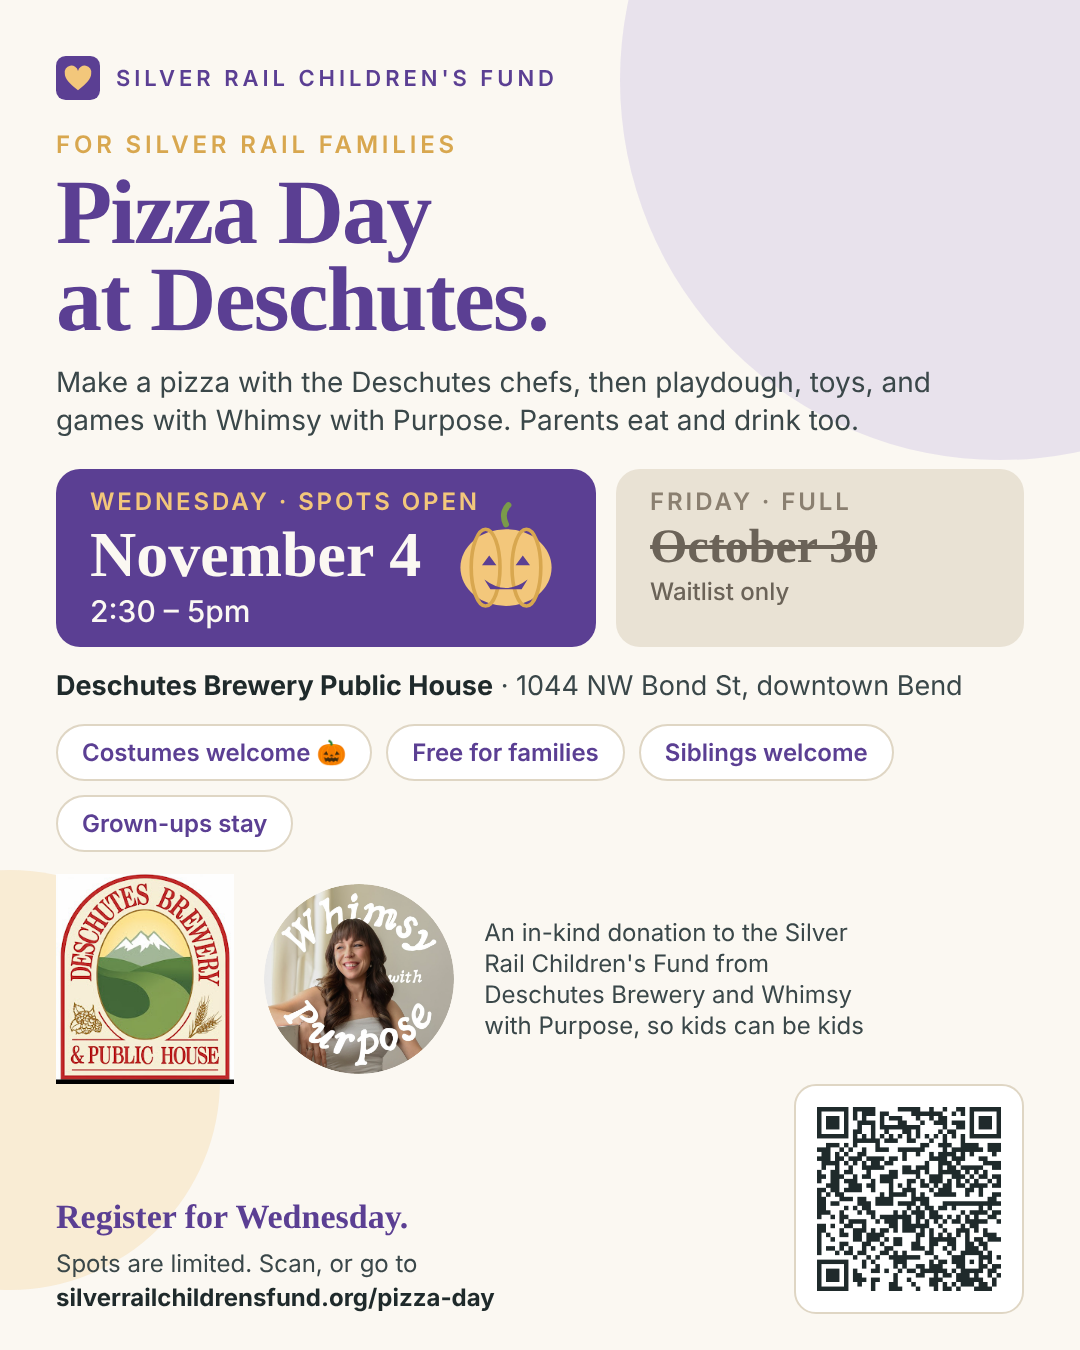
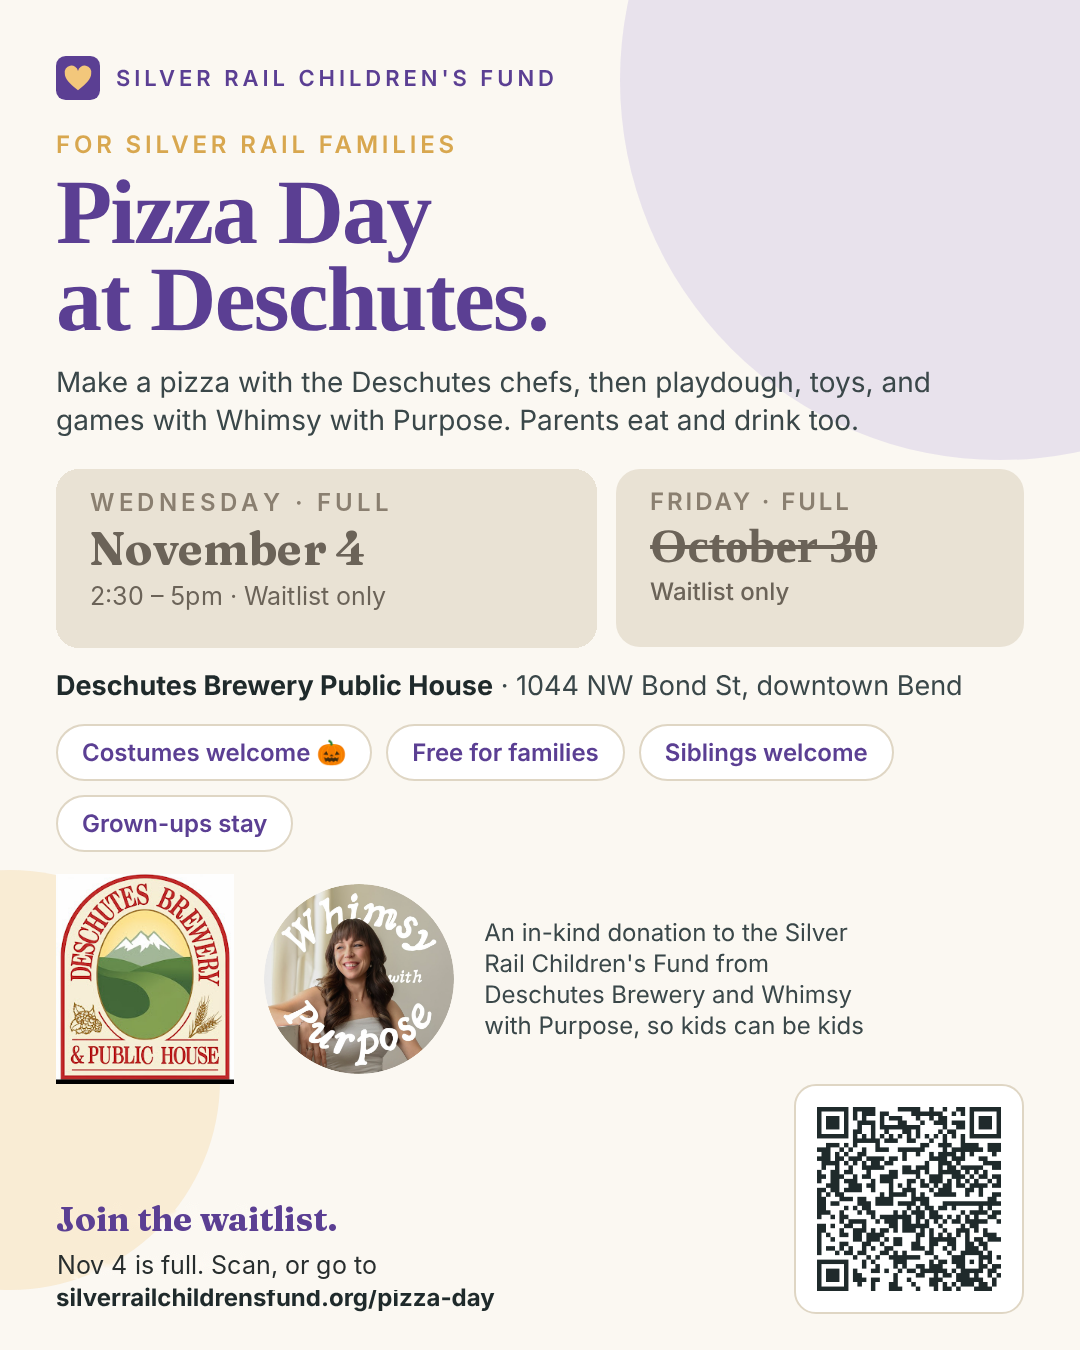
Pizza Day graphic: Nov 4 marked full, waitlist only
Claude-Session: https://claude.ai/code/session_01H4F1UDwucYKKLCYM9E3Qkc

Changed region(s): [[0.0306, 0.3422, 0.55, 0.4978], [0.0611, 0.8711, 0.3972, 0.9644]]

diff --git a/parents.html b/parents.html
@@ -176,7 +176,7 @@ footer.sf .sf-legal a{color:var(--ink-2)}
 <section id="pizza-day" style="padding:36px 0 0;border:0">
   <div class="wrap">
     <div class="event">
-      <img src="pizza-day-announcement.png" alt="Pizza Day at Deschutes Brewery for Silver Rail kids">
+      <img src="pizza-day-announcement.png?v=2" alt="Pizza Day at Deschutes Brewery for Silver Rail kids">
       <div>
         <div class="eyebrow">Wednesday, Nov 4 · 2:30–5 pm · full — waitlist open</div>
         <h2 style="margin-bottom:.3em">Pizza Day at Deschutes — Wed Nov 4.</h2>
